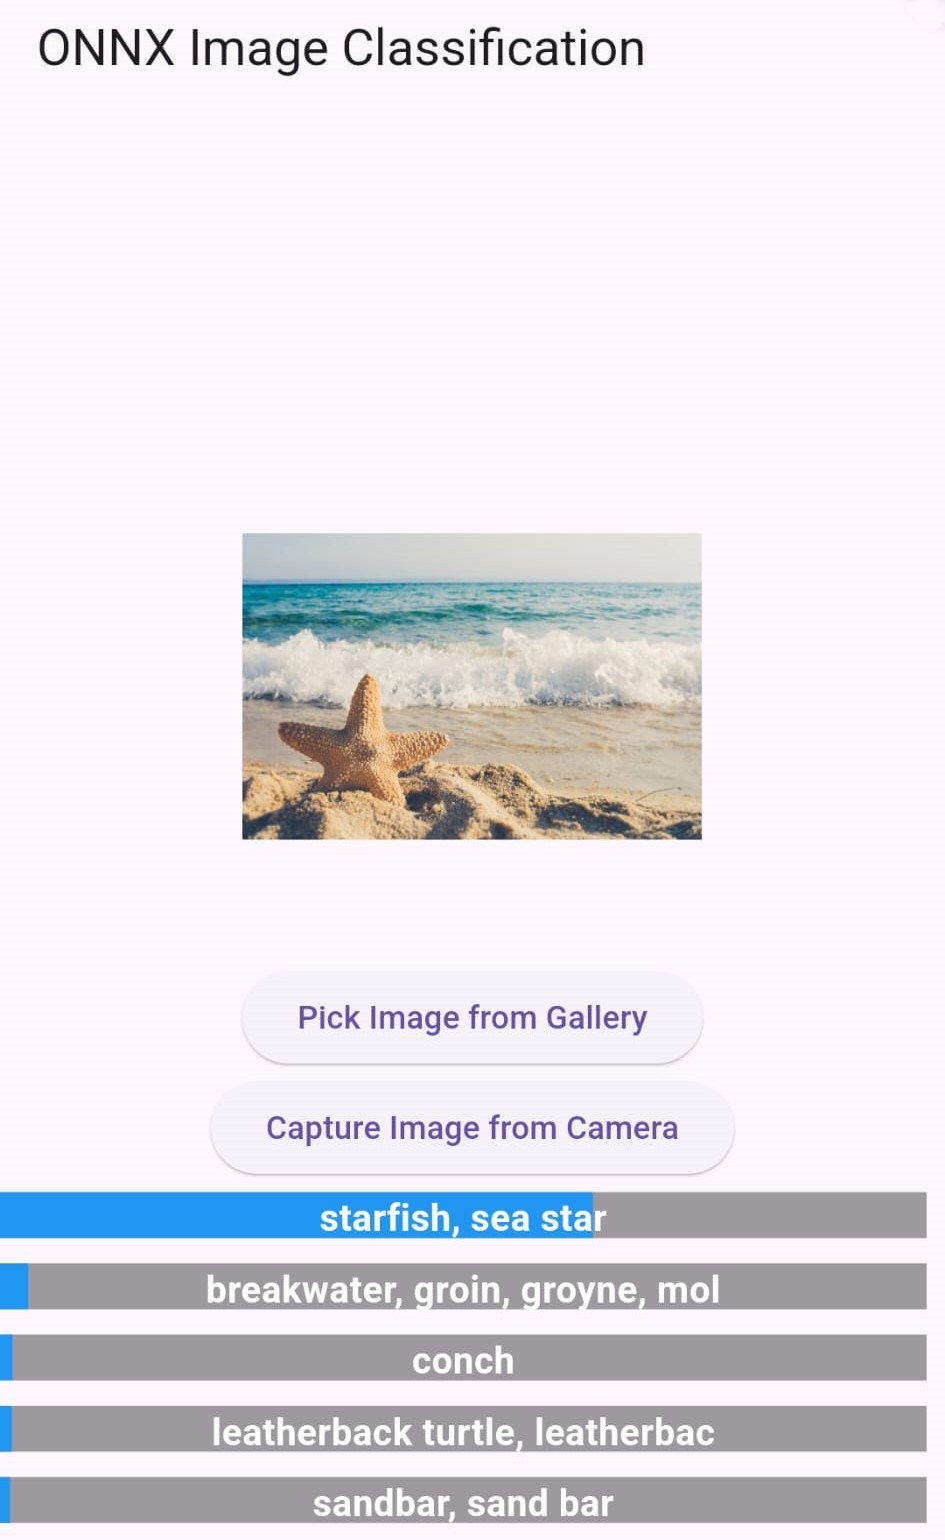
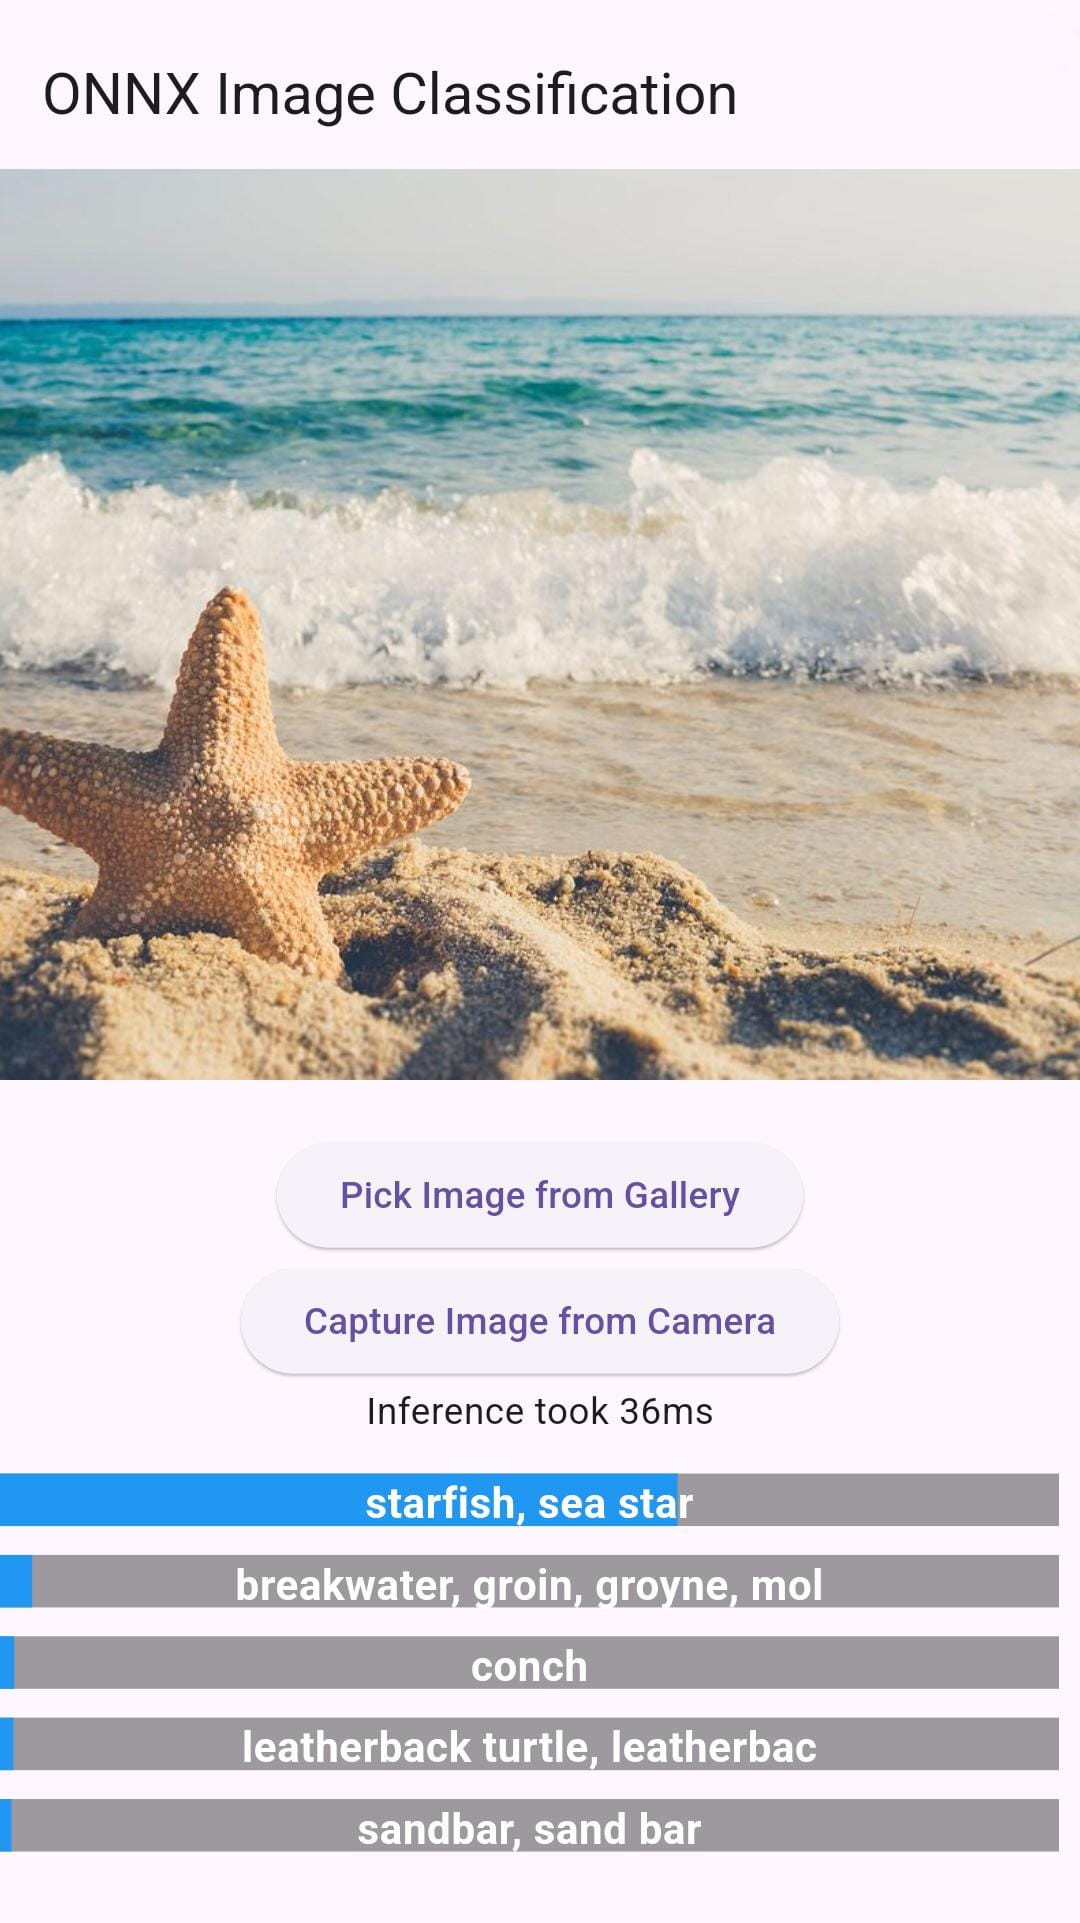
feat: inference timings, readme updates

diff --git a/lib/main.dart b/lib/main.dart
@@ -37,6 +37,7 @@ class _ImageClassificationPageState extends State<ImageClassificationPage> {
   File? _imageFile;
   final ImagePicker _picker = ImagePicker();
   final ValueNotifier<List<OutputResult>> predictions = ValueNotifier([]);
+  final ValueNotifier<int> inferenceTime = ValueNotifier(0);
 
   @override
   void initState() {
@@ -142,26 +143,17 @@ Float32List _preprocessImage(File imageFile) {
 
     // Perform inference
     try {
+      final stopwatch = Stopwatch()..start();
       final runOptions = OrtRunOptions();
       final outputs = await _session!.runAsync(runOptions, inputs);
       predictions.value = processOutputs(outputs, 5);
-      
+      inferenceTime.value = stopwatch.elapsedMilliseconds;
       // Release resources
       inputTensor.release();
       runOptions.release();
     } catch (e) {
       print("Error during inference: $e");
     }
-  }
-
-  // Process output to get the top predicted class
-  String _processOutput(List<OrtValue> outputs) {
-    // Assuming the output is a tensor of probabilities (softmax).
-    // You need to modify this based on your specific model's output format.
-    final outputTensor = outputs[0].value as Float32List;
-    final maxIndex = outputTensor.indexOf(outputTensor.reduce((a, b) => a > b ? a : b));
-
-    return "Predicted class index: $maxIndex";
   }
 
   @override
@@ -178,10 +170,18 @@ Float32List _preprocessImage(File imageFile) {
       ),
       body: Center(
         child: Column(
-          mainAxisAlignment: MainAxisAlignment.center,
+          mainAxisAlignment: MainAxisAlignment.start,
           children: <Widget>[
-            if (_imageFile != null)
-              Image.file(_imageFile!, height: 200, width: 200),
+              SizedBox(
+                height: MediaQuery.of(context).size.height * 0.4,
+                width: MediaQuery.of(context).size.width,
+                child: _imageFile == null 
+                          ? const Icon(Icons.image, size: 100)
+                          : Image.file(
+                              _imageFile!,
+                              fit: BoxFit.cover,
+                            ),
+              ),
             const SizedBox(height: 20),
             ElevatedButton(
               onPressed: () => _pickImage(ImageSource.gallery),
@@ -190,16 +190,22 @@ Float32List _preprocessImage(File imageFile) {
             ElevatedButton(
               onPressed: () => _pickImage(ImageSource.camera),
               child: const Text('Capture Image from Camera'),
-            ),
-            
+            ),            
             ValueListenableBuilder<List<OutputResult>>(
               valueListenable: predictions,
               builder: (context, predictionList, _) {
                 if (predictionList.isEmpty) {
-                  return Center(child: Text('No predictions available'));
+                  return const Center(child: Text('No predictions available'));
                 }
-
-                return Column(
+                
+              return Column(
+                crossAxisAlignment: CrossAxisAlignment.start,
+                children: [
+                  Center(
+                    child: Text('Inference took ${inferenceTime.value}ms'),
+                  ),
+                  const SizedBox(height: 10.0),
+                  Column(
                   crossAxisAlignment: CrossAxisAlignment.start,
                   children: predictionList.map((prediction) {
                     return Padding(
@@ -234,7 +240,7 @@ Float32List _preprocessImage(File imageFile) {
                       ),
                     );
                    }).toList(),
-                  );
+                  )]);
                 },
               ),
           ],

diff --git a/README.md b/README.md
@@ -1,6 +1,6 @@
 # ONNX Image Classification
 This repo contains an example inference flutter app that ports a CNN image classifier to Flutter on device.
-For this purpose, we convert Googles `mobilenet`, but it should work for other models as well.
+For this purpose, we convert Googles `mobilenet`, as it is small with only ~3.5M parameters and runs with <200ms on inference on most modern phones and recognizes 1.000 classes.
 
 
 <img src='assets/example.jpeg' style="float: right; margin-left: 10px;width:200px">
@@ -8,3 +8,7 @@ For this purpose, we convert Googles `mobilenet`, but it should work for other m
 ## Getting Started
 To convert your model, or any HF model, to the `onnx` format, see the python-notebook `model_to_onnx/convert_model.ipynb`.
 Run the flutter application with `flutter run` after installing all dependencies
+
+## References
+- Mobilenet [https://huggingface.co/google/mobilenet_v2_1.0_224](https://huggingface.co/google/mobilenet_v2_1.0_224)
+- ONNX [https://onnx.ai/](https://onnx.ai/)
